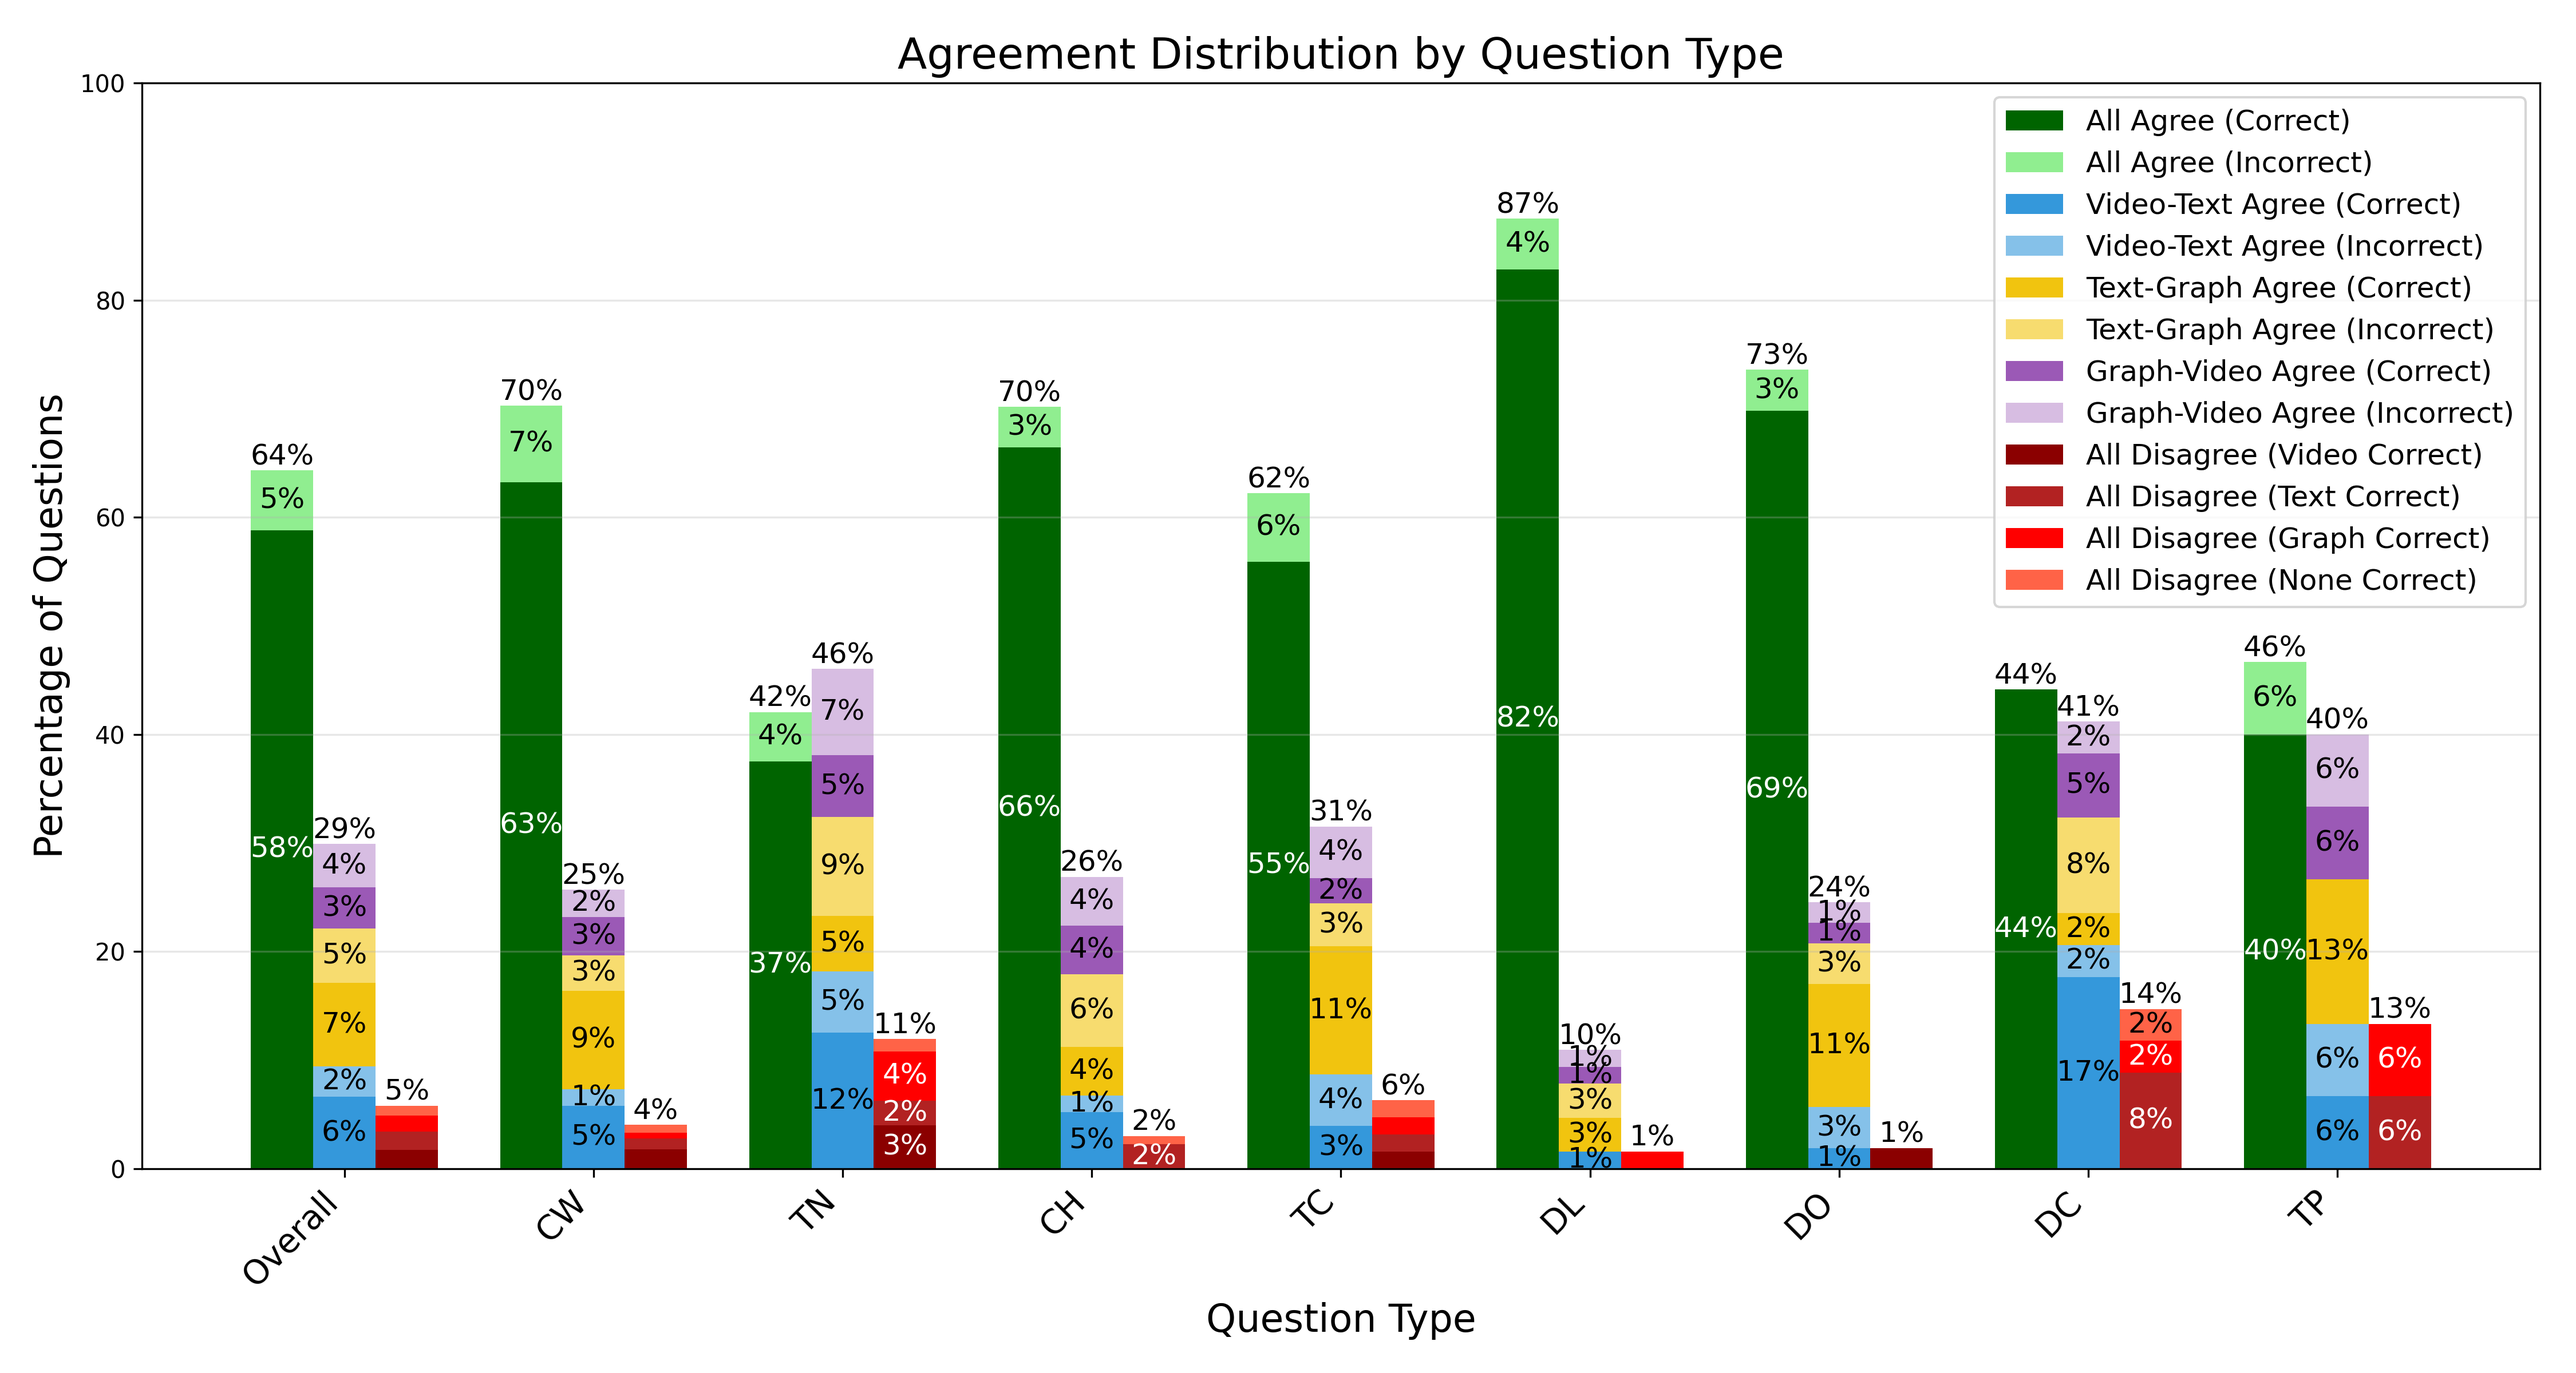
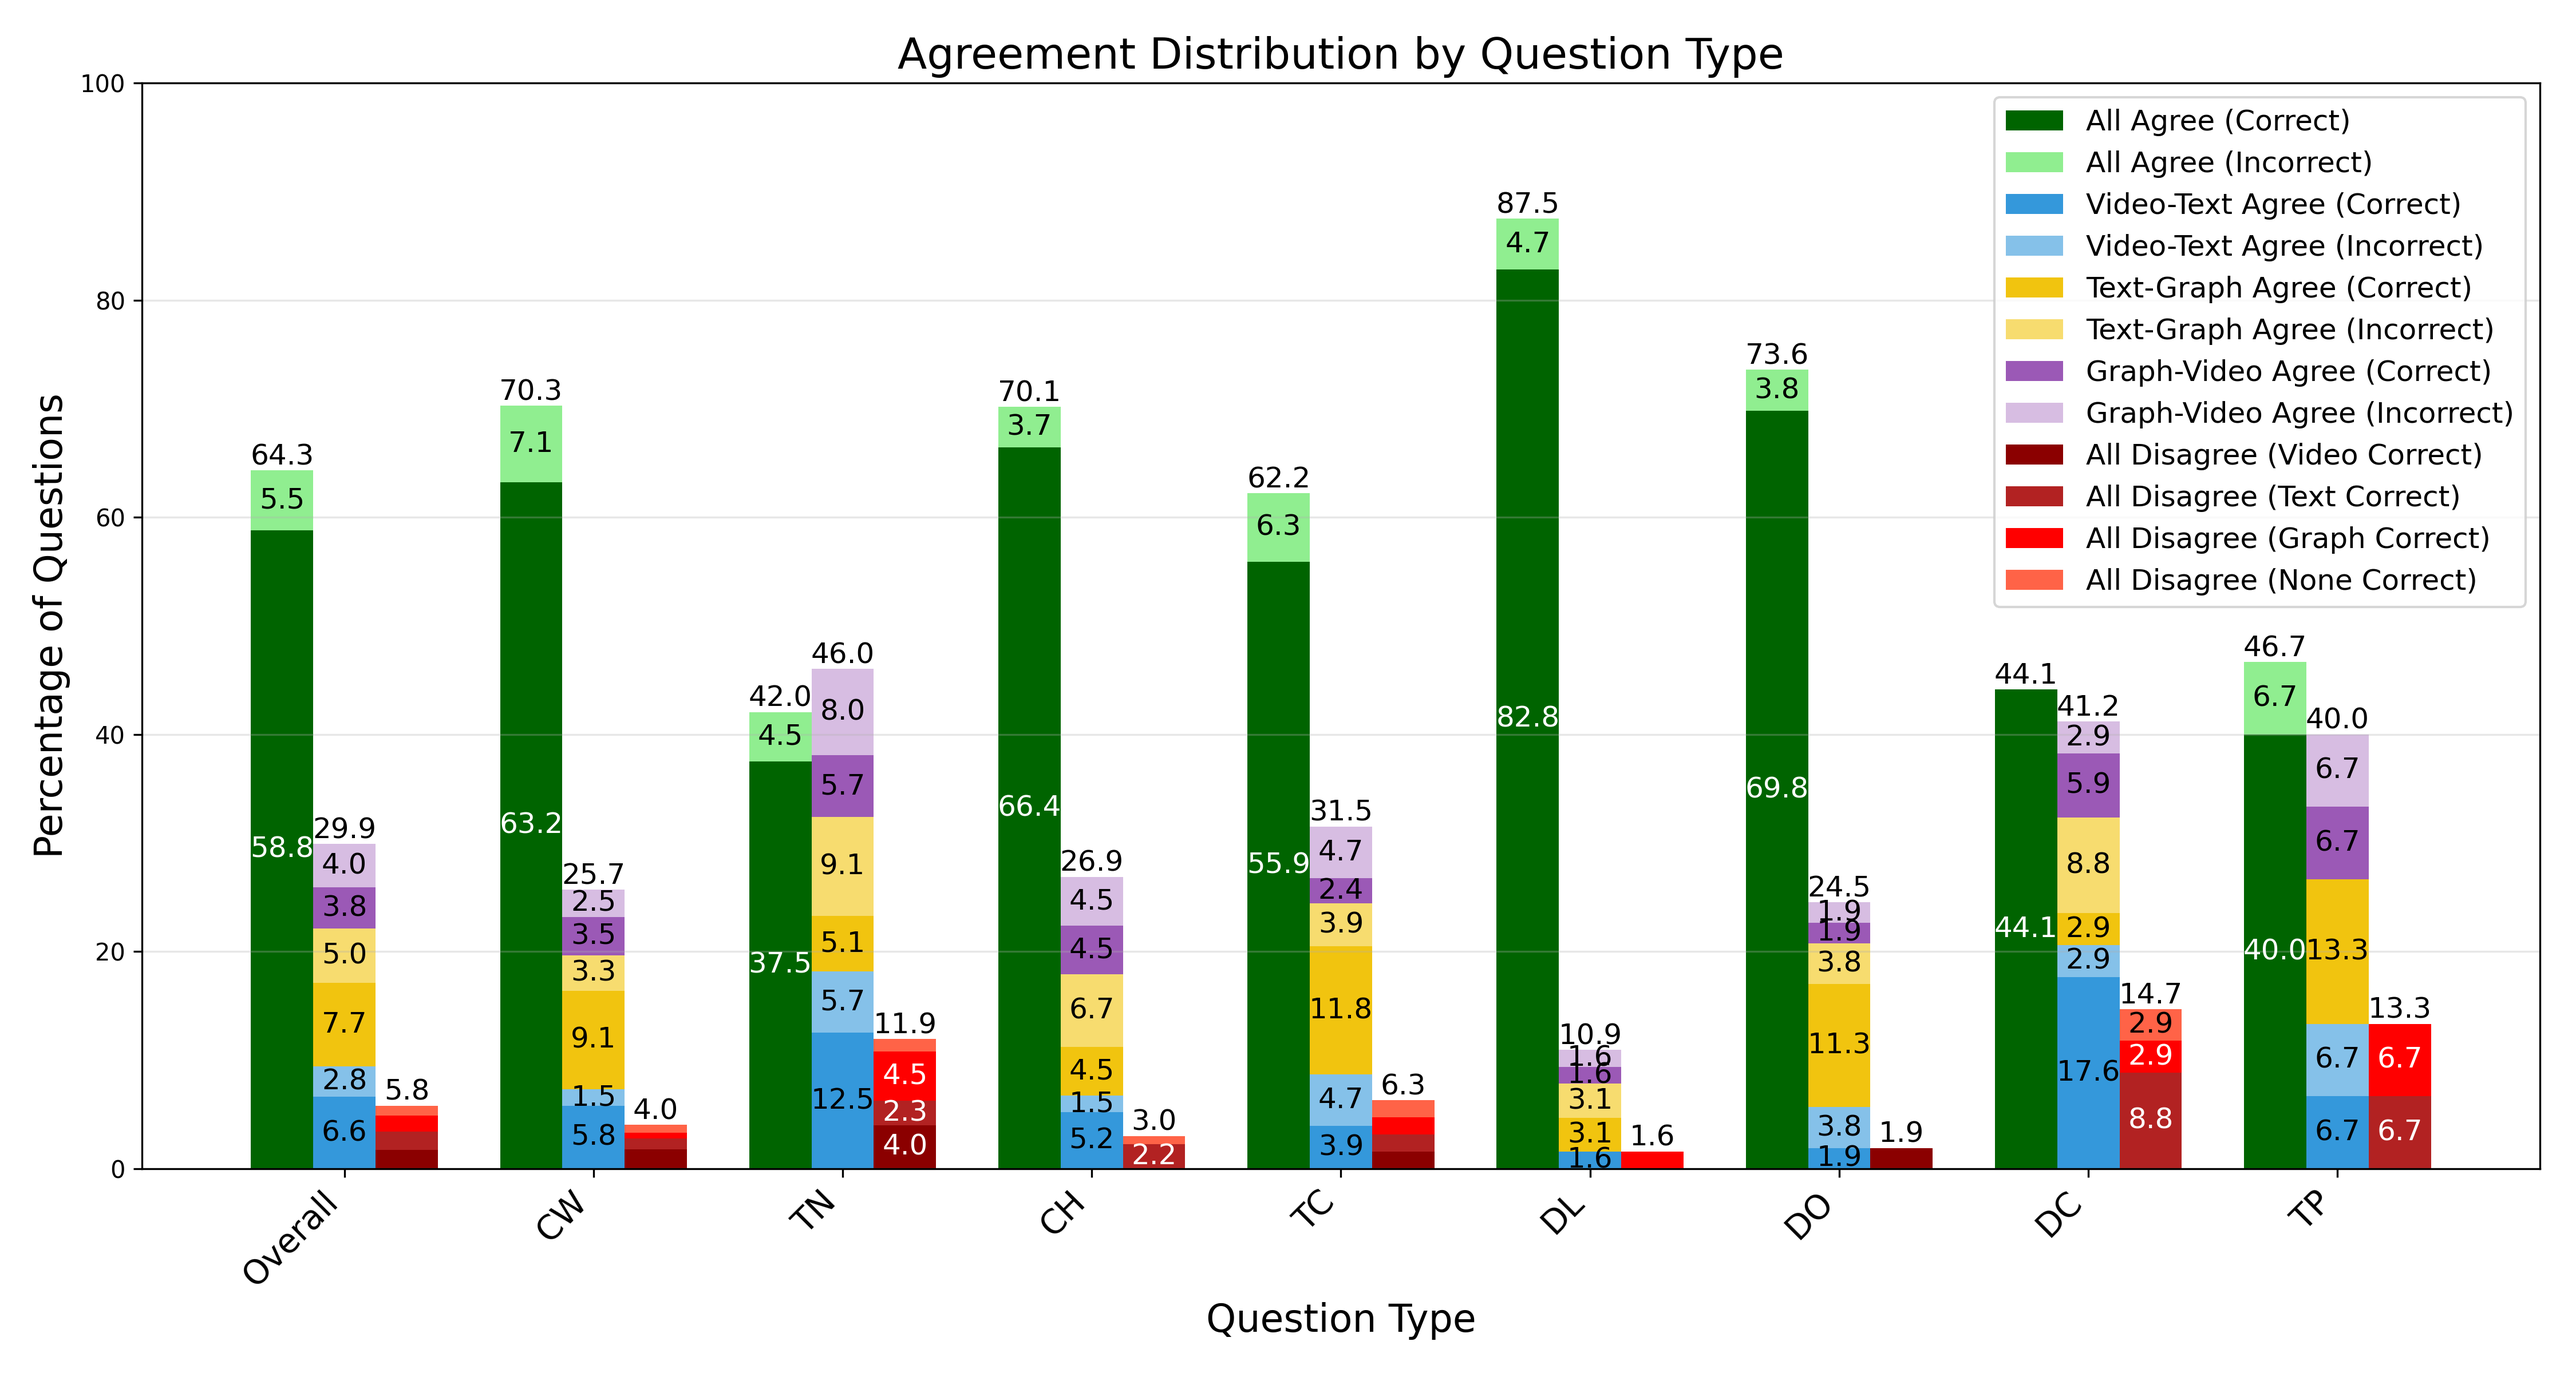
Show percentages in agreement_distribution.png up to 1 decimal point

diff --git a/modality_advantages.py b/modality_advantages.py
@@ -516,7 +516,7 @@ plt.grid(True, axis='y', alpha=0.3)
 def add_labels(x_pos, heights, width):
     for i, height in enumerate(heights):
         if height > 1:  # Only add label if segment is at least 1%
-            plt.text(x_pos[i], height, f'{int(height)}%', 
+            plt.text(x_pos[i], height, f'{round(height, 1)}', 
                     ha='center', va='bottom')
 
 # Add labels for all-agree correct and incorrect
@@ -524,20 +524,20 @@ for i in range(len(x)):
     # All agree correct
     if all_agree_correct_percentages[i] > 1:
         plt.text(x[i] - width, all_agree_correct_percentages[i]/2, 
-                f'{int(all_agree_correct_percentages[i])}%', 
+                f'{round(all_agree_correct_percentages[i], 1)}', 
                 ha='center', va='center', fontsize=12, color='white')
     
     # All agree incorrect
     if all_agree_incorrect_percentages[i] > 1:
         mid_point = all_agree_correct_percentages[i] + all_agree_incorrect_percentages[i]/2
         plt.text(x[i] - width, mid_point, 
-                f'{int(all_agree_incorrect_percentages[i])}%', 
+                f'{round(all_agree_incorrect_percentages[i], 1)}', 
                 ha='center', va='center', fontsize=12)
     
     # Total all_agree percentage
     total_all_agree = all_agree_correct_percentages[i] + all_agree_incorrect_percentages[i]
     if total_all_agree > 1:
-        plt.text(x[i] - width, total_all_agree, f'{int(total_all_agree)}%',
+        plt.text(x[i] - width, total_all_agree, f'{round(total_all_agree, 1)}',
                 ha='center', va='bottom', fontsize=12)
 
 # Add labels for all-disagree segments
@@ -545,35 +545,35 @@ for i in range(len(x)):
     # Video correct
     if all_disagree_video_correct_percentages[i] >= 2:
         plt.text(x[i] + width, all_disagree_video_correct_percentages[i]/2, 
-                f'{int(all_disagree_video_correct_percentages[i])}%', 
+                f'{round(all_disagree_video_correct_percentages[i], 1)}', 
                 ha='center', va='center', fontsize=12, color='white')
     
     # Text correct
     if all_disagree_text_correct_percentages[i] >= 2:
         mid_point = all_disagree_video_correct_percentages[i] + all_disagree_text_correct_percentages[i]/2
         plt.text(x[i] + width, mid_point, 
-                f'{int(all_disagree_text_correct_percentages[i])}%', 
+                f'{round(all_disagree_text_correct_percentages[i], 1)}', 
                 ha='center', va='center', fontsize=12, color='white')
     
     # Graph correct
     if all_disagree_graph_correct_percentages[i] >= 2:
         mid_point = all_disagree_video_correct_percentages[i] + all_disagree_text_correct_percentages[i] + all_disagree_graph_correct_percentages[i]/2
         plt.text(x[i] + width, mid_point, 
-                f'{int(all_disagree_graph_correct_percentages[i])}%', 
+                f'{round(all_disagree_graph_correct_percentages[i], 1)}', 
                 ha='center', va='center', fontsize=12, color='white')
     
     # None correct
     if all_disagree_none_correct_percentages[i] >= 2:
         mid_point = all_disagree_video_correct_percentages[i] + all_disagree_text_correct_percentages[i] + all_disagree_graph_correct_percentages[i] + all_disagree_none_correct_percentages[i]/2
         plt.text(x[i] + width, mid_point, 
-                f'{int(all_disagree_none_correct_percentages[i])}%', 
+                f'{round(all_disagree_none_correct_percentages[i], 1)}', 
                 ha='center', va='center', fontsize=12)
     
     # Total all_disagree percentage
     total_all_disagree = (all_disagree_video_correct_percentages[i] + all_disagree_text_correct_percentages[i] + 
                          all_disagree_graph_correct_percentages[i] + all_disagree_none_correct_percentages[i])
     if total_all_disagree > 1:
-        plt.text(x[i] + width, total_all_disagree, f'{int(total_all_disagree)}%',
+        plt.text(x[i] + width, total_all_disagree, f'{round(total_all_disagree, 1)}',
                 ha='center', va='bottom', fontsize=12)
 
 # Add labels for stacked bars (only if segment is at least 1%)
@@ -581,42 +581,42 @@ for i in range(len(x)):
     # Video-Text correct
     if video_text_correct_percentages[i] > 1:
         plt.text(x[i], video_text_correct_percentages[i]/2, 
-                f'{int(video_text_correct_percentages[i])}%', 
+                f'{round(video_text_correct_percentages[i], 1)}', 
                 ha='center', va='center', fontsize=12)
     
     # Video-Text incorrect
     if video_text_incorrect_percentages[i] > 1:
         mid_point = video_text_correct_percentages[i] + video_text_incorrect_percentages[i]/2
         plt.text(x[i], mid_point, 
-                f'{int(video_text_incorrect_percentages[i])}%', 
+                f'{round(video_text_incorrect_percentages[i], 1)}', 
                 ha='center', va='center', fontsize=12)
     
     # Text-Graph correct
     if text_graph_correct_percentages[i] > 1:
         mid_point = video_text_correct_percentages[i] + video_text_incorrect_percentages[i] + text_graph_correct_percentages[i]/2
         plt.text(x[i], mid_point, 
-                f'{int(text_graph_correct_percentages[i])}%', 
+                f'{round(text_graph_correct_percentages[i], 1)}', 
                 ha='center', va='center', fontsize=12)
     
     # Text-Graph incorrect
     if text_graph_incorrect_percentages[i] > 1:
         mid_point = video_text_correct_percentages[i] + video_text_incorrect_percentages[i] + text_graph_correct_percentages[i] + text_graph_incorrect_percentages[i]/2
         plt.text(x[i], mid_point, 
-                f'{int(text_graph_incorrect_percentages[i])}%', 
+                f'{round(text_graph_incorrect_percentages[i], 1)}', 
                 ha='center', va='center', fontsize=12)
     
     # Graph-Video correct
     if graph_video_correct_percentages[i] > 1:
         mid_point = video_text_correct_percentages[i] + video_text_incorrect_percentages[i] + text_graph_correct_percentages[i] + text_graph_incorrect_percentages[i] + graph_video_correct_percentages[i]/2
         plt.text(x[i], mid_point, 
-                f'{int(graph_video_correct_percentages[i])}%', 
+                f'{round(graph_video_correct_percentages[i], 1)}', 
                 ha='center', va='center', fontsize=12)
     
     # Graph-Video incorrect
     if graph_video_incorrect_percentages[i] > 1:
         mid_point = video_text_correct_percentages[i] + video_text_incorrect_percentages[i] + text_graph_correct_percentages[i] + text_graph_incorrect_percentages[i] + graph_video_correct_percentages[i] + graph_video_incorrect_percentages[i]/2
         plt.text(x[i], mid_point, 
-                f'{int(graph_video_incorrect_percentages[i])}%', 
+                f'{round(graph_video_incorrect_percentages[i], 1)}', 
                 ha='center', va='center', fontsize=12)
     
     # Total two-agree percentage
@@ -624,7 +624,7 @@ for i in range(len(x)):
                        text_graph_correct_percentages[i] + text_graph_incorrect_percentages[i] + 
                        graph_video_correct_percentages[i] + graph_video_incorrect_percentages[i])
     if total_two_agree > 1:
-        plt.text(x[i], total_two_agree, f'{int(total_two_agree)}%',
+        plt.text(x[i], total_two_agree, f'{round(total_two_agree, 1)}',
                 ha='center', va='bottom', fontsize=12)
 
 plt.tight_layout()
